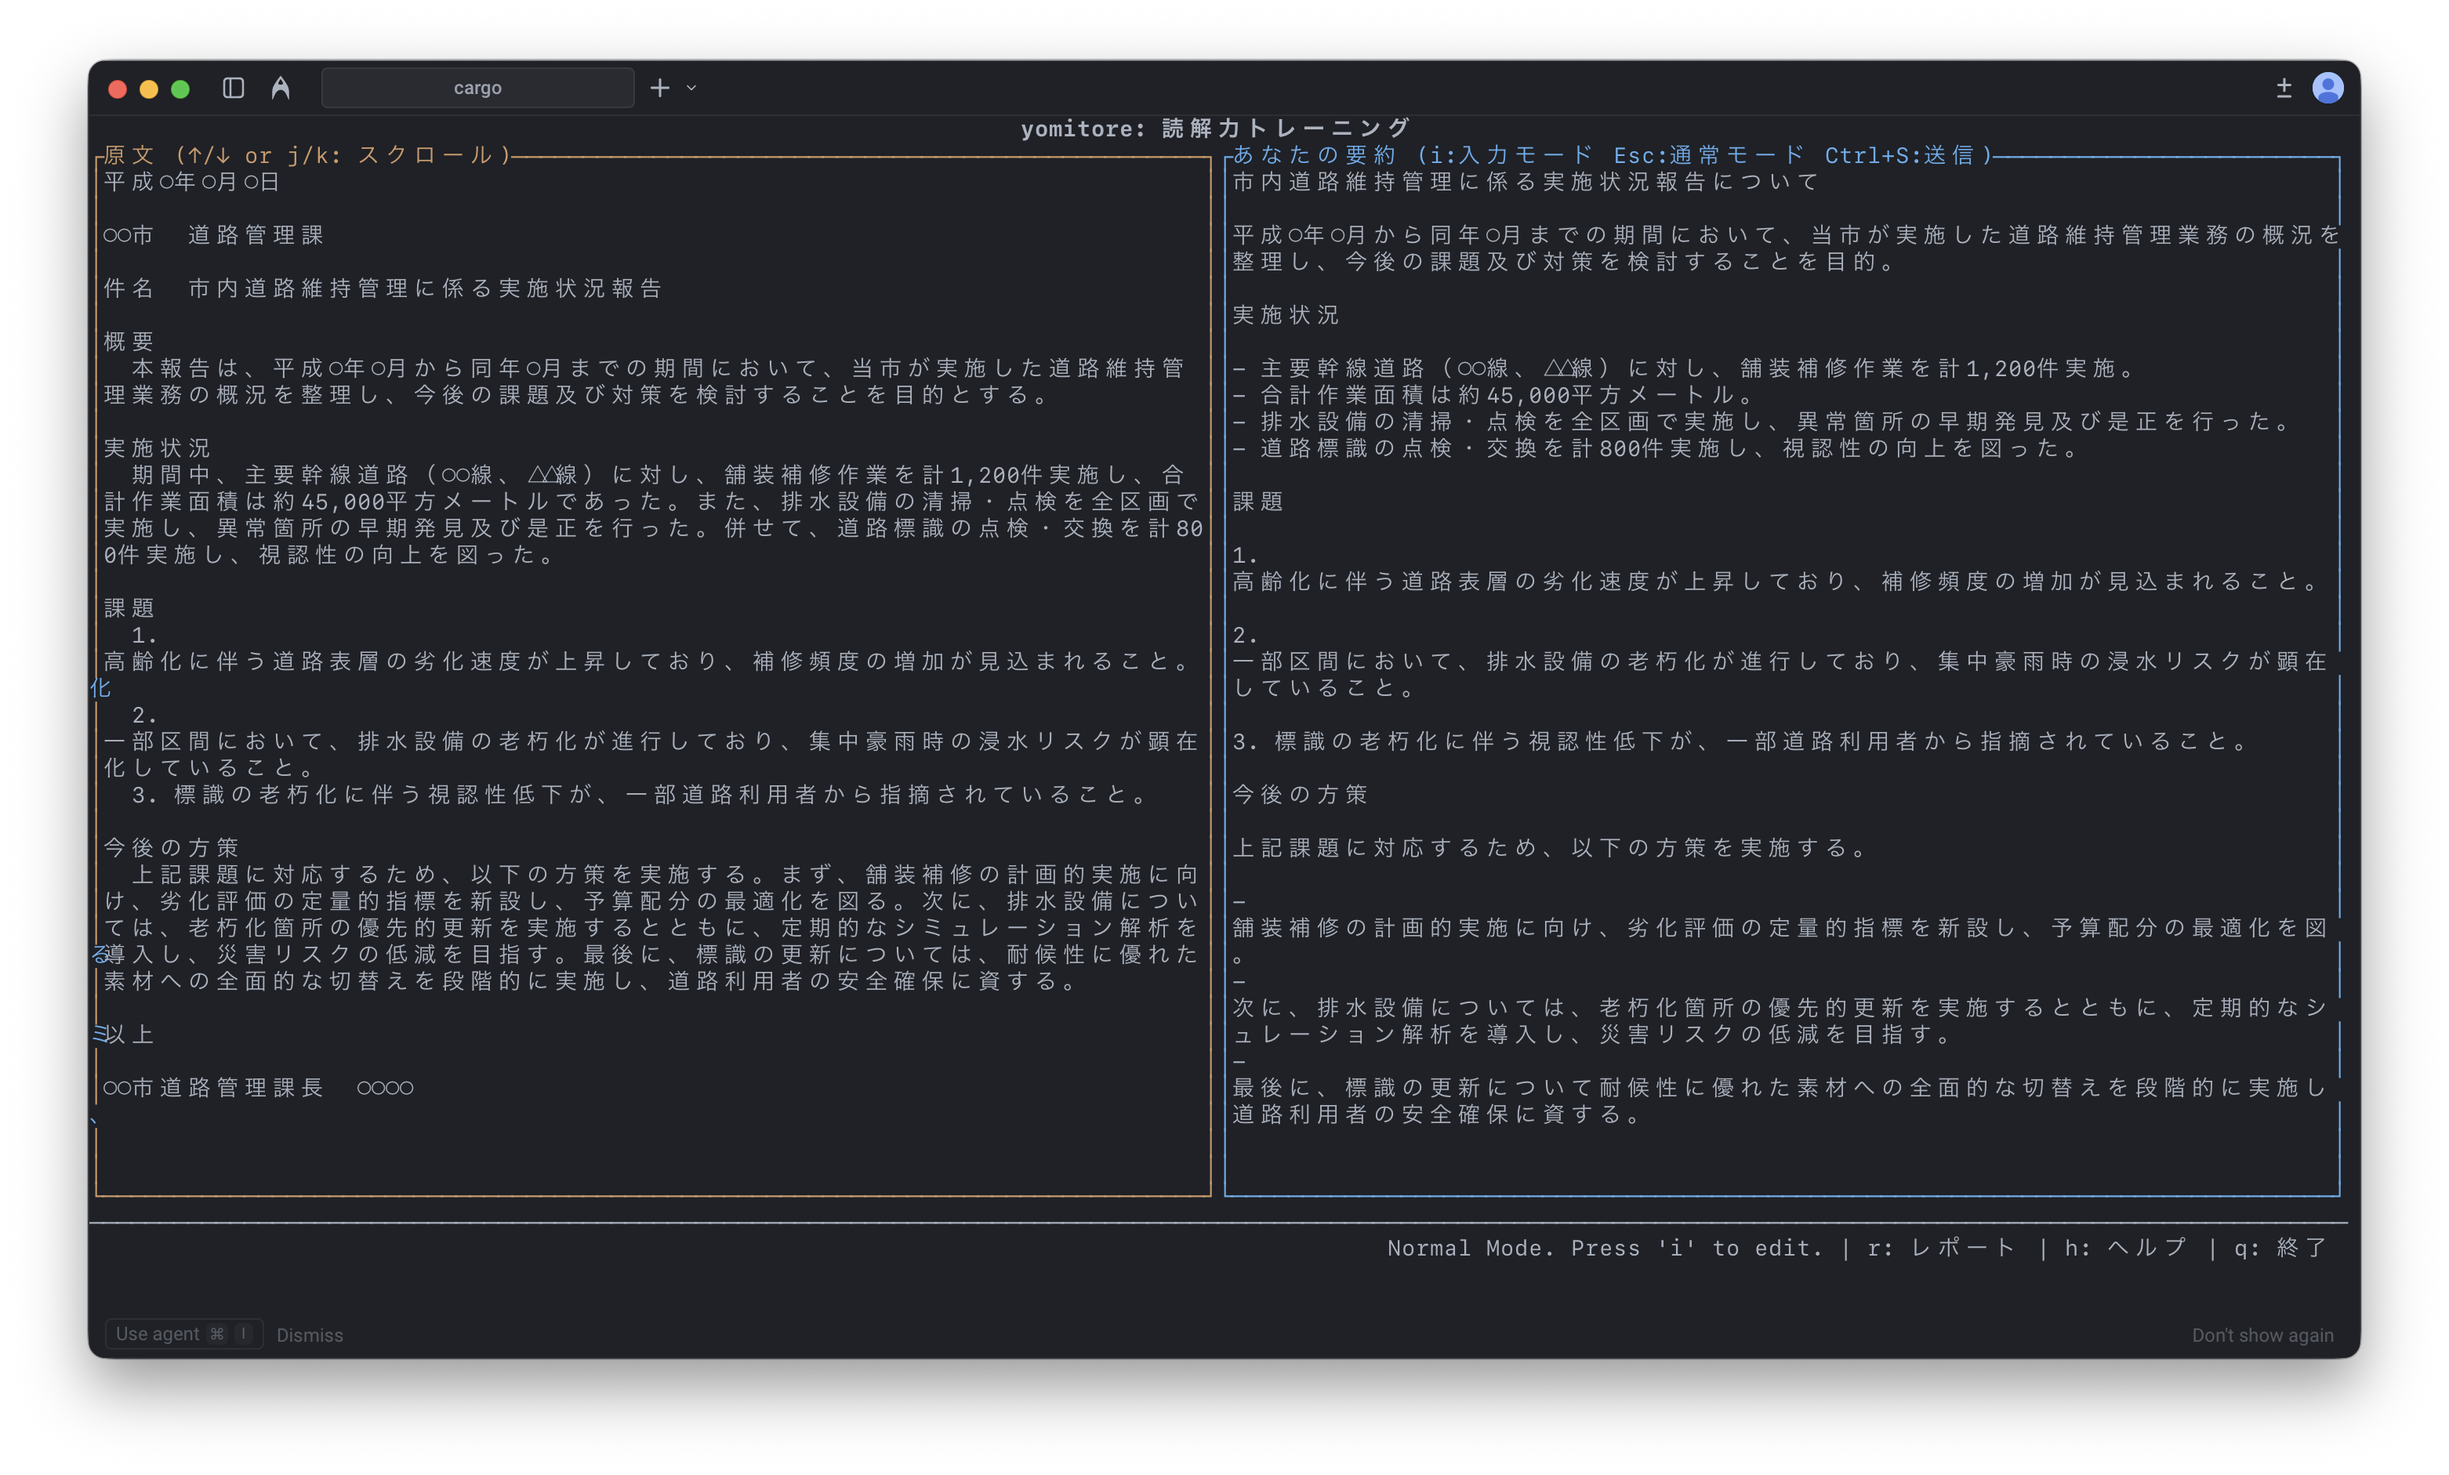
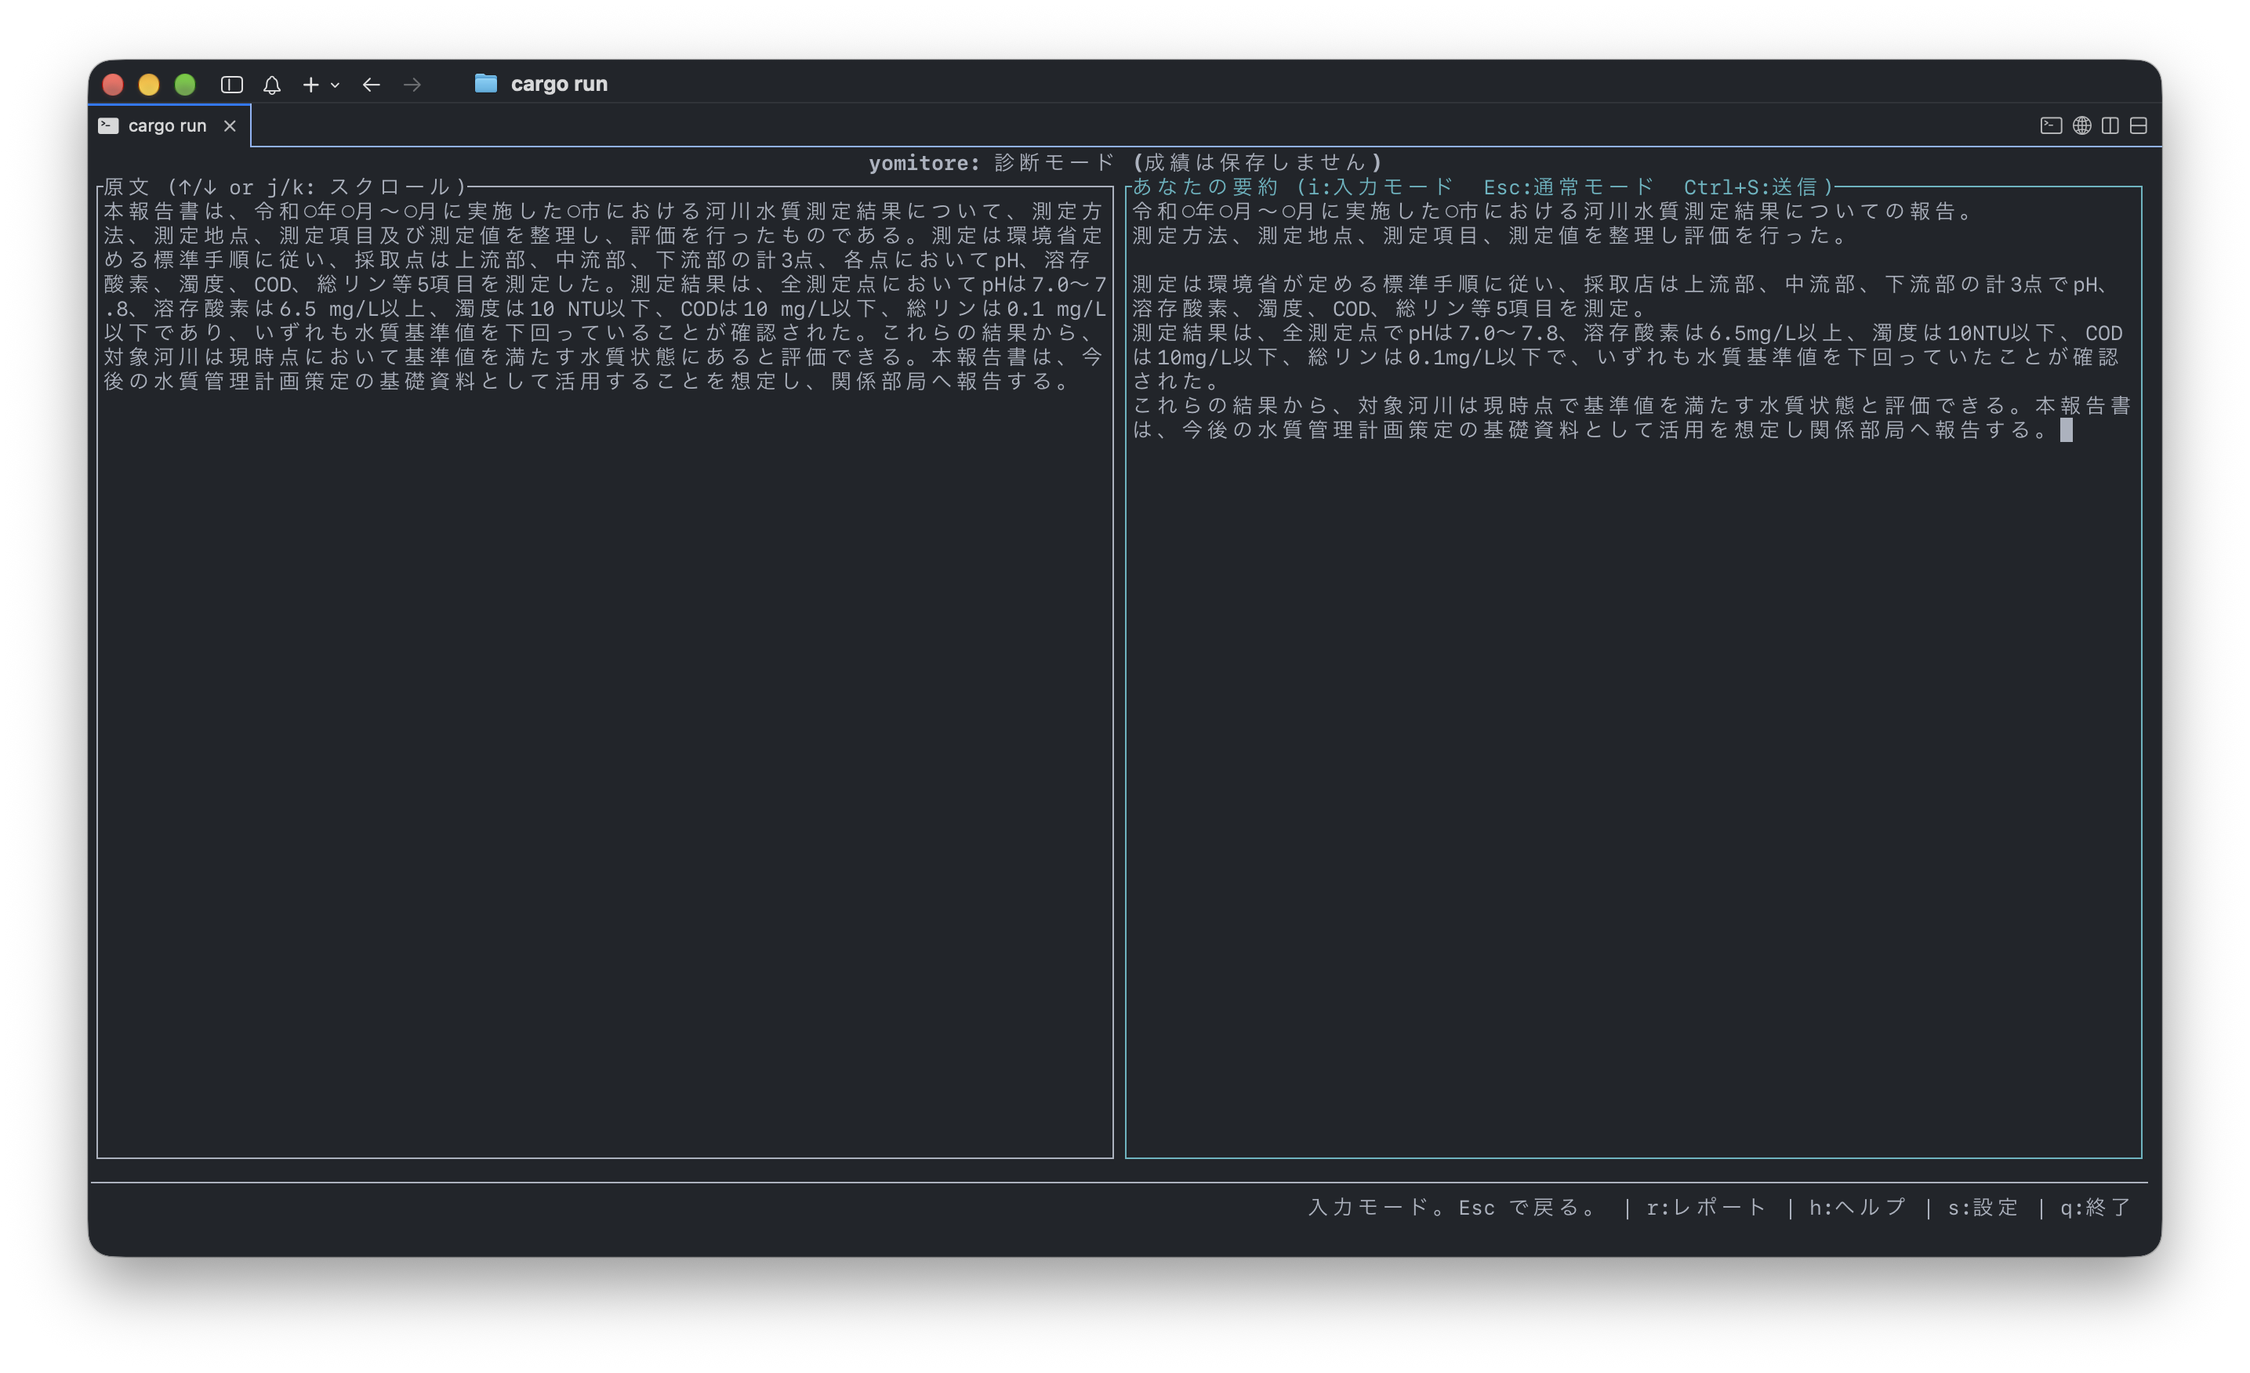
chore: READMEとUIメッセージの文言を改善し、不要な画像を削除

diff --git a/src/ui.rs b/src/ui.rs
@@ -79,7 +79,7 @@ pub fn render(app: &mut App, frame: &mut Frame) {
 
 fn render_header(app: &App, frame: &mut Frame, area: Rect) {
     let title = if app.diagnosis_mode {
-        " yomitore: 診断モード（成績は保存しません） "
+        " yomitore: 診断モード (成績は保存しません) "
     } else {
         " yomitore: 読解力トレーニング "
     };
@@ -91,14 +91,14 @@ fn render_header(app: &App, frame: &mut Frame, area: Rect) {
 
 fn render_original_text(app: &mut App, frame: &mut Frame, area: Rect) {
     let block = Block::default()
-        .title("原文 (↑/↓ or j/k: スクロール)")
+        .title("原文 (↑/↓ or j/k:スクロール)")
         .borders(Borders::ALL);
     let inner = block.inner(area);
     let text = app
         .original_text
         .as_deref()
         .or(app.generation_error.as_deref())
-        .unwrap_or("原文を生成しています...");
+        .unwrap_or("原文を生成中...");
     let lines = wrap_original_text(text, inner.width);
     let max_scroll = lines.len().saturating_sub(usize::from(inner.height));
     app.original_text_scroll = app
@@ -134,7 +134,7 @@ fn wrap_original_text(text: &str, width: u16) -> Vec<Line<'static>> {
 }
 
 fn render_summary_input(app: &App, frame: &mut Frame, area: Rect) {
-    let title = "あなたの要約 (i:入力モード Esc:通常モード Ctrl+S:送信)";
+    let title = "要約 (i:入力 | Esc:戻る | Ctrl+S:送信)";
 
     let border_style = if app.view_mode == ViewMode::Editing {
         Style::default().fg(Color::Cyan)
@@ -233,7 +233,7 @@ fn render_evaluation_overlay(app: &App, frame: &mut Frame) {
     };
 
     let block = Block::default()
-        .title(" 評価結果 (e: 閉じる, Shift+↑/↓ or Shift+j/k: スクロール, n: 次の問題) ")
+        .title(" 評価結果 (e:閉じる | Shift+↑/↓ or Shift+j/k:スクロール | n:次の問題) ")
         .borders(Borders::ALL)
         .border_style(Style::default().fg(border_color))
         .style(Style::default().bg(Color::Black));
@@ -257,12 +257,11 @@ fn render_status_bar(app: &App, frame: &mut Frame, area: Rect) {
         app.view_mode,
         ViewMode::Menu | ViewMode::Normal | ViewMode::Editing
     ) {
-        " | s: 設定"
+        " | s:設定"
     } else {
         ""
     };
-    let status_text =
-        format!(" {status_message} | r: レポート | h: ヘルプ{settings_hint} | q: 終了 ");
+    let status_text = format!(" {status_message} | r:レポート | h:ヘルプ{settings_hint} | q:終了 ");
     let mut lines = vec![Line::from(status_text)];
     if let Some(error) = &app.stats_load_error {
         lines.push(Line::from(error.as_str()).style(Style::default().fg(Color::Yellow)));
@@ -347,7 +346,7 @@ fn render_menu_view(app: &App, frame: &mut Frame) {
     };
 
     let block = Block::default()
-        .title("トレーニング")
+        .title(" 文字数選択 ")
         .title_alignment(Alignment::Center)
         .borders(Borders::ALL);
 
@@ -442,7 +441,7 @@ fn render_settings_view(app: &App, frame: &mut Frame) {
             Span::raw(" "),
             button(" Cancel ", SettingsFocus::Cancel),
         ]),
-        Line::from("Tab / Shift+Tab: 移動 | Enter: 次へ・実行 | Esc: キャンセル"),
+        Line::from("Tab/Shift+Tab:移動 | Enter:次へ・実行 | Esc:キャンセル"),
         Line::from("空欄のまま保存すると、現在のキーを保持します。"),
         Line::from(app.status_message.as_str()),
     ]);
@@ -471,7 +470,7 @@ fn render_help_view(app: &App, frame: &mut Frame) {
     };
 
     let block = Block::default()
-        .title("ヘルプ (↑/↓ or j/k: スクロール, h: 閉じる)")
+        .title("ヘルプ (↑/↓ or j/k:スクロール | h:閉じる)")
         .title_alignment(Alignment::Center)
         .borders(Borders::ALL);
 
@@ -496,7 +495,7 @@ fn build_menu_lines(selected_menu_item: usize, diagnosis_mode: bool) -> Vec<Line
     }
     let state = if diagnosis_mode { "ON" } else { "OFF" };
     lines.push(build_menu_option_line(
-        format!("診断モード {state} (Space)"),
+        format!("診断モード: {state} (スペースで切替)"),
         selected_menu_item == MENU_OPTIONS.len(),
     ));
     lines.push(Line::default());

diff --git a/src/app.rs b/src/app.rs
@@ -55,17 +55,17 @@ pub const MIN_OVERLAY_HEIGHT: u16 = 10;
 const BLOCK_BORDER_SIZE: u16 = 2;
 
 const GENERATION_ERROR_PREFIX: &str = "文章生成に失敗しました: ";
-pub const STATUS_MENU: &str = "文字数を選び、開始してください。";
-pub const STATUS_NORMAL: &str = "通常モードです。'i' で入力します。";
-pub const STATUS_EDITING: &str = "入力モードです。Esc で戻ります。";
-pub const STATUS_REPORT: &str = "レポート表示中です。'r' で閉じます。";
-pub const STATUS_HELP: &str = "ヘルプ表示中です。'h' で閉じます。";
-pub const STATUS_GENERATING: &str = "文章を生成しています...";
-pub const STATUS_NEXT_GENERATING: &str = "次の文章を生成しています...";
-const STATUS_GENERATION_FAILED: &str = "文章を生成できませんでした。'n' で再試行します。";
-pub const STATUS_EVALUATING: &str = "要約を評価しています...";
-pub const STATUS_EVALUATED: &str = "評価が完了しました。'e' で切替、'n' で次へ進みます。";
-pub const STATUS_INVALID_EVALUATION: &str = "評価結果の形式が不正です。";
+pub const STATUS_MENU: &str = "文字数を選び ENTER で開始";
+pub const STATUS_NORMAL: &str = "通常モード。'i' で要約を入力。";
+pub const STATUS_EDITING: &str = "入力モード。Esc で戻る。";
+pub const STATUS_REPORT: &str = "レポート表示中。'r' で閉じる。";
+pub const STATUS_HELP: &str = "ヘルプ表示中。'h' で閉じる";
+pub const STATUS_GENERATING: &str = "文章を生成中...";
+pub const STATUS_NEXT_GENERATING: &str = "次の文章を生成中...";
+const STATUS_GENERATION_FAILED: &str = "文章を生成できませんでした。'n' で再試行。";
+pub const STATUS_EVALUATING: &str = "要約を評価中...";
+pub const STATUS_EVALUATED: &str = "評価が完了。'e' で切替、'n' で次の問題。";
+pub const STATUS_INVALID_EVALUATION: &str = "評価結果の形式が不正。";
 pub const STATUS_RUNTIME_ERROR: &str = "エラーが発生しました。";
 
 pub struct App {

diff --git a/README.md b/README.md
@@ -1,14 +1,17 @@
 # yomitore (読トレ)
 
-`yomitore` は、AI との対話的なトレーニングを通じて、ユーザの日本語読解力と要約力を向上させるために設計された TUI アプリケーションです。
+日本語(読)解力(トレ)ーニングアプリ
 
 ## 概要
 
-GroqCloud API で命題用の文章と改善点を生成し、TypeSafe AI の Jev で要約を採点・合否判定します。主要なデスクトップオペレーティングシステム (Windows, macOS, Linux) で動作するターミナルベースのアプリケーションです。
+`yomitore` は、AI を通じて日本語読解力と要約力を向上させるために設計された TUI アプリケーションです。Groq で命題用の文章を生成し、TypeSafe AI の Jev で要約を採点・合否判定し、Groq で改善点を提示します。主要なデスクトップオペレーティングシステム (Windows, macOS, Linux) で動作します。
 
-![Screenshot](./docs/images/screenshot-00.png)
+![Screenshot](./docs/images/screenshot-01.png)
+
 ![Screenshot](./docs/images/screenshot-02.png)
+
 ![Screenshot](./docs/images/screenshot-03.png)
+
 ![Screenshot](./docs/images/screenshot-04.png)
 
 ## 特徴
@@ -18,14 +21,13 @@ GroqCloud API で命題用の文章と改善点を生成し、TypeSafe AI の Je
    - 720 字: 中程度の文章 (A4 用紙半分)
    - 1440 字: 複雑な文章 (A4 用紙一枚)
    - 2880 字: 長い文章 (A4 用紙二枚)
-2. **対話的な要約**: ユーザは、提供された文章の要約を入力するよう求められます。複数行の入力もサポートされています。
-3. **AI による評価**: Jev が忠実性、網羅性、重要度、簡潔性、明瞭性と重大な誤りの有無を評価します。アプリは0〜100点の総合得点と最終判定を表示し、Groq は改善点を3件示します。
-4. **継続的なループ**: フィードバックを受けた後、ユーザは次の問題に進むことができ、継続的な練習が可能です。
-5. **グラフ**: 直近180日と週次の正誤履歴を、週横軸・曜日縦軸のヒートマップや棒グラフで確認できます。
-6. **スコア**: 直近180日の平均値と中央値を採点方式別に表示します。週次レポートでは合格、不合格、要確認の件数を確認できます。
-7. **レイアウト**: 2 分割のブロックに、AI による診断結果を表示するフローティングブロックで見やすく利用可能 (100x30 のターミナルサイズが必要です)。
-8. **アワード**: 連続正解数 (ストリーク) や累積正解数に応じて、アワードが授与されます。
-9. **バディ**: 以下のキャラクターを育成することができます。育成には、正解数に応じて得られるポイントを使用します。なお、バディは2コマアニメーションします。
+2. **AI による評価**: Jev が忠実性、網羅性、重要度、簡潔性、明瞭性と重大な誤りの有無を評価します。アプリは0〜100点の総合得点と最終判定を表示し、Groq は改善点を3件示します。
+3. **継続的なループ**: フィードバックを受けた後、ユーザは次の問題に進むことができ、継続的な練習が可能です。
+4. **グラフ**: 直近180日と週次の正誤履歴を、週横軸・曜日縦軸のヒートマップや棒グラフで確認できます。
+5. **スコア**: 直近180日の平均値と中央値を採点方式別に表示します。週次レポートでは合格、不合格、要確認の件数を確認できます。
+6. **レイアウト**: 2 分割のブロックに、AI による診断結果を表示するフローティングブロックで見やすく利用可能 (100x30 のターミナルサイズが必要です)。
+7. **アワード**: 連続正解数 (ストリーク) や累積正解数に応じて、アワードが授与されます。
+8. **バディ**: 以下のキャラクターを育成することができます。育成には、正解数に応じて得られるポイントを使用します。なお、バディは2コマアニメーションします。
 
    ```text
    レベル 1    →    レベル 2    →    レベル 3
